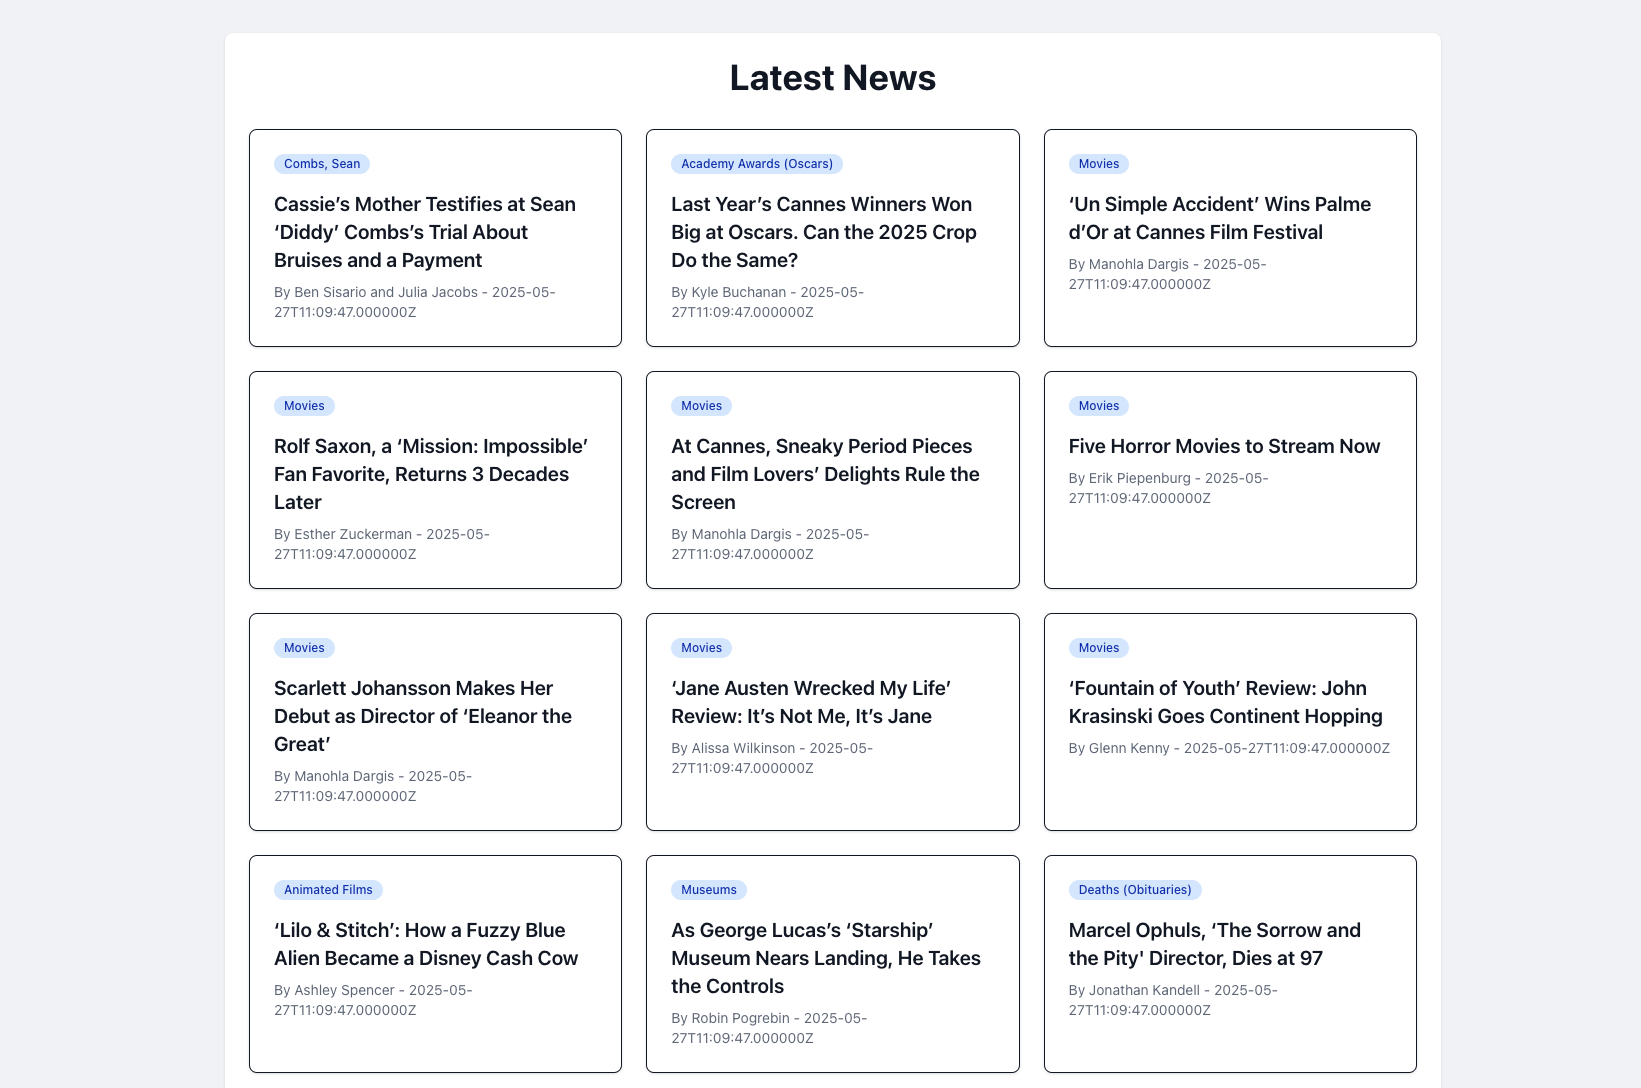
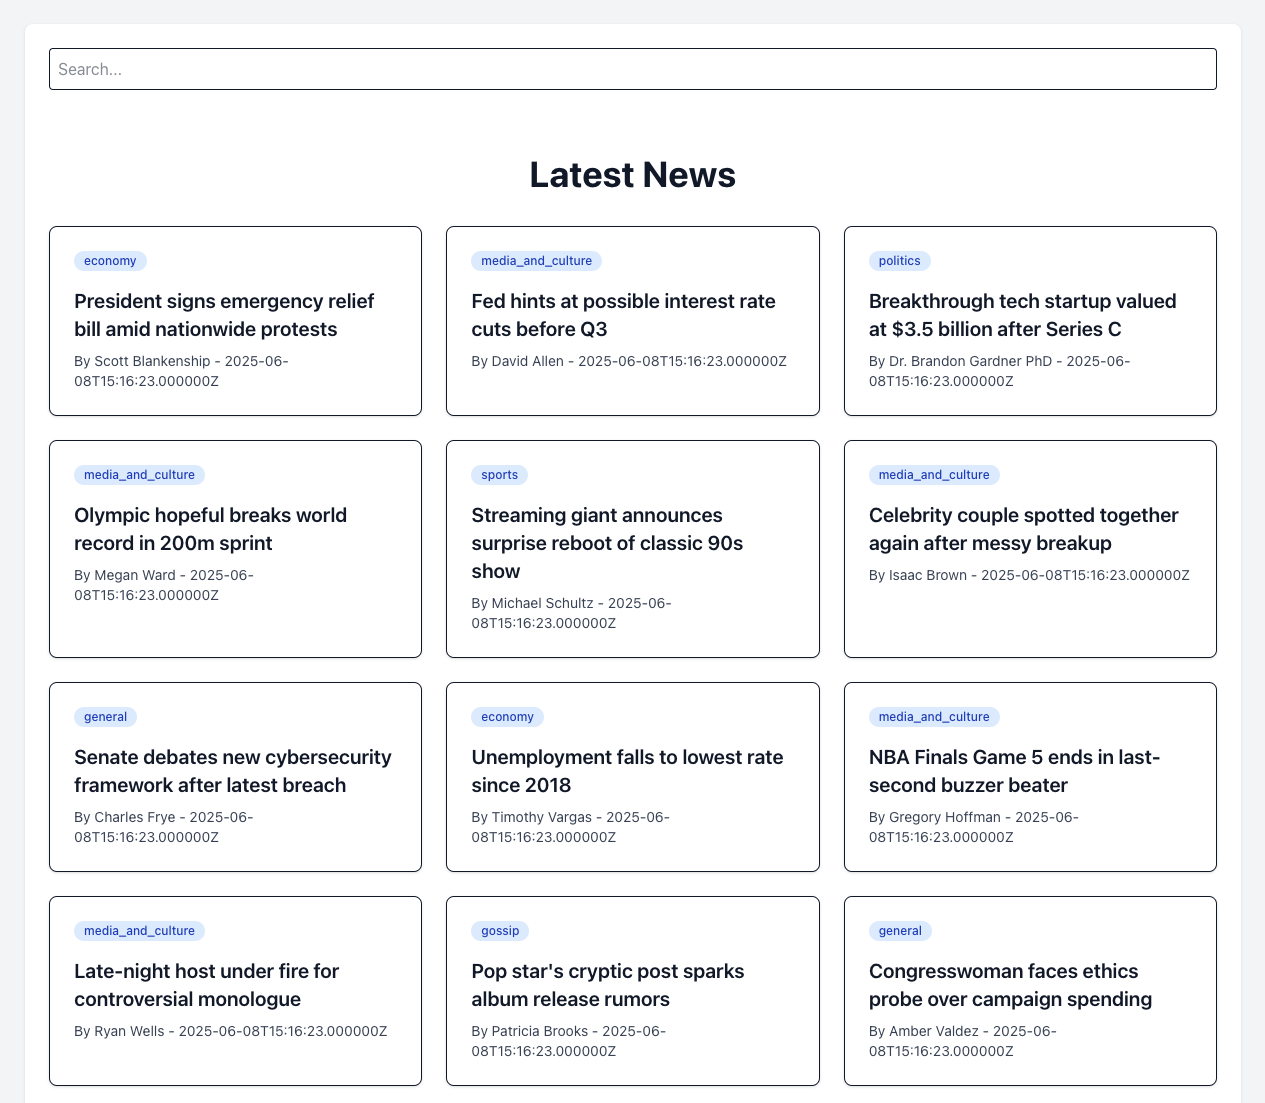
Small fixes + update readme

Changed region(s): [[0.0617, 0.125, 0.9557, 1.0], [0.4316, 0.0625, 0.5858, 0.0938], [0.0617, 0.0312, 0.0925, 0.0938]]

diff --git a/resources/js/Pages/Articles/Index.vue b/resources/js/Pages/Articles/Index.vue
@@ -1,0 +1,66 @@
+<template>
+    <div class="min-h-screen bg-gray-100">
+        <div class="py-12">
+            <div class="max-w-7xl mx-auto sm:px-6 lg:px-8">
+                <div class="bg-white overflow-hidden shadow-sm sm:rounded-lg">
+                    <div class="p-6 text-gray-900">
+                        <input type="text" v-model="searchQuery" placeholder="Search..."
+                               class="border rounded p-2 mb-4 w-full" @keyup.enter="search"/>
+                        <div v-if="hasSearchQuery" class="mb-4">
+                            <a href="/" class="text-blue-500 hover:underline">Back to Articles</a>
+                        </div>
+                    </div>
+                    <div class="p-6 text-gray-900">
+                        <div v-if="searchResults.length > 0">
+                            <h1 class="text-4xl font-bold text-center mb-8">Search Results for "{{ searchQueryFromUrl }}"</h1>
+                            <div class="grid grid-cols-1 md:grid-cols-2 lg:grid-cols-3 gap-6">
+                                <ArticleCard v-for="article in searchResults" :key="article.id" :article="article"/>
+                            </div>
+                        </div>
+                        <div v-else>
+                            <h1 class="text-4xl font-bold text-center mb-8">Latest News</h1>
+
+                            <div class="grid grid-cols-1 md:grid-cols-2 lg:grid-cols-3 gap-6">
+                                <ArticleCard v-for="article in articles" :key="article.id" :article="article"/>
+                            </div>
+                        </div>
+                    </div>
+                </div>
+            </div>
+        </div>
+    </div>
+</template>
+
+<script setup>
+import {ref, computed} from 'vue';
+import ArticleCard from '../../Components/ArticleCard.vue';
+
+const searchQuery = ref('');
+
+const hasSearchQuery = computed(() => {
+    const urlParams = new URLSearchParams(window.location.search);
+    return urlParams.has('q');
+});
+
+const searchQueryFromUrl = computed(() => {
+    const urlParams = new URLSearchParams(window.location.search);
+    return urlParams.get('q') || '';
+});
+
+function search() {
+    if (searchQuery.value) {
+        window.location.href = `?q=${searchQuery.value}`;
+    }
+}
+
+defineProps({
+    articles: {
+        type: Array,
+        required: true
+    },
+    searchResults: {
+        type: Array,
+        required: false
+    }
+});
+</script>

diff --git a/resources/js/Components/ArticleCard.vue b/resources/js/Components/ArticleCard.vue
@@ -1,0 +1,31 @@
+<template>
+    <Link :href="`/articles/${article.slug}`"
+          class="bg-white border rounded-lg shadow-sm p-6 hover:shadow-md transition-shadow duration-200">
+        <div class="flex items-center justify-between mb-4">
+            <span class="inline-flex items-center px-2.5 py-0.5 rounded-full text-xs font-medium bg-blue-100 text-blue-800">
+                {{ article.category }}
+            </span>
+        </div>
+        <h2 class="text-xl font-semibold text-gray-900 mb-2">
+            {{ article.title }}
+        </h2>
+        <p class="text-sm text-gray-700">
+            By {{ article.author }} - {{ article.created_at }}
+        </p>
+        <p v-if="article.similarity_score" class="text-xs text-gray-700 mt-2 italic">
+            Similarity score: {{ article.similarity_score.toFixed(2) }}
+        </p>
+    </Link>
+</template>
+
+<script setup>
+import {Link} from '@inertiajs/vue3';
+import {defineProps} from 'vue';
+
+defineProps({
+    article: {
+        type: Object,
+        required: true
+    }
+});
+</script>

diff --git a/app/Http/Controllers/ArticleController.php b/app/Http/Controllers/ArticleController.php
@@ -14,7 +14,7 @@ class ArticleController extends Controller
 {
     public function index(Request $request): Response
     {
-        return Inertia::render('Welcome', [
+        return Inertia::render('Articles/Index', [
             'articles' => Article::latest()->get(),
             'searchResults' => $this->getSearchResults($request)
         ]);
@@ -35,6 +35,7 @@ class ArticleController extends Controller
         return $similarContent->map(function (SimilarContentResult $item) {
                 $similarItem = Article::find($item->targetId);
                 $keywords = $similarItem->keywords ?: [];
+
                 return [
                     'title' => $similarItem->title,
                     'slug' => $similarItem->slug,
@@ -55,7 +56,7 @@ class ArticleController extends Controller
         $searchResults = collect($searchResults)->map(function (SimilarContentResult $result) {
             $article = Article::find($result->targetId);
             return $article ? array_merge($article->toArray(), [
-                'similarityScore' => $result->similarityScore
+                'similarity_score' => $result->similarityScore
             ]) : [];
         });
 

diff --git a/README.md b/README.md
@@ -2,38 +2,45 @@
 
 This project is an example of how to integrate the [Timm49/similar-content](https://github.com/Timm49/similar-content) package into a Laravel project.
 
-This example focuses on how to use the package to easily add a "Related items recommendation" section to a detail view.
-It's a very basic app with news articles like NYT, CNN, etc.
-It includes a command which uses the New York Times RSS feed to populate the database with dummy data.
-An example of the recommendation section can be found on an article detail route: /articles/{slug}
+To showcase these features I decided on a very basic news article website (like NYT, CNN, etc)
+
+This example includes examples for the 2 main features of the package:
+
+- Related content recommendation section
+- Semantic search
+
+Check out the ArticleController since more or less everything relevant to the package happens in there.
 
 ## Installation
 
 Clone via git
-
 ```bash
 git clone https://github.com/Timm49/example-app-similar-content
+```
+
+Add environment variables
+```env
+SIMILAR_CONTENT_OPENAI_API_KEY=your-key-for-embeddings
 ```
 
 Composer installation
 ```bash
 composer install
 ```
+
 Run migrations
 ```bash
 php artisan migrate
 ```
 
-Add environment variables
-```env
-OPENAI_API_KEY=your-key-for-generating-content-with-chatgpt
-SIMILAR_CONTENT_OPENAI_API_KEY=your-key-for-embeddings
-```
-Note: You only need the OPENAI_API_KEY if you want to generate content using ChatGPT. The keys can be the same as longs as it has the correct permissions.
-
-Run queue workers/listeners to queue embedding generation processes
+Seed the database
 ```bash
-php queue:listen
+php artisan db:seed
+```
+
+Generate embeddings (OpenAI)
+```bash
+php artisan similar-content:generate-embeddings
 ```
 
 Serve the app
@@ -42,40 +49,26 @@ php artisan serve
 npm run dev
 ```
 
-## Result
+### The routes:
+
+#### /
+This route shows the article index page. The "search" bar showcases how you can use the package to easily include a semantic search feature on your applicaiton.
 <p>
-  <img src="docs/news-index.png" alt="Screenshot of similar content results" width="500" />
+  <img src="docs/news-index.png" alt="Screenshot of similar content results" width="100%" />
 </p>
+
+### /articles/{slug}
+Article show (detail) page with "related articles" recommendation section.
+I displayed the similarity scores in this section to make the similarity extra clear.
 <p>
-  <img src="docs/news-show.png" alt="Screenshot of similar content results" width="500" />
+  <img src="docs/news-show.png" alt="Screenshot of similar content results" width="100%" />
 </p>
 
-## Code examples
-On the articles.show route we retrieve similar content and add it to the response:
-
-```php
-public function show(Article $article): Response
-{
-    $similarContent = collect(SimilarContent::for($article)
-        ->getSimilarContent())
-        ->take(5);
-
-    return Inertia::render('Articles/Show', [
-        'article' => $article,
-        'similar_content' => $similarContent->map(function (SimilarContentResult $item) {
-            $similarItem = Article::find($item->targetId);
-            return [
-                'title' => $similarItem->title,
-                'slug' => $similarItem->slug,
-                'author' => $similarItem->author,
-                'published_at' => $similarItem->published_at,
-                'category' => $similarItem->category,
-                'similarity_score' => $item->similarityScore,
-            ];
-        })
-    ]);
-}
-```
+#### /?q=SearchQuery
+The route which shows the search results from the search input:
+<p>
+  <img src="docs/news-semantic-search.png" alt="Screenshot of semantic search results" width="100%" />
+</p>
 
 ## Contributing
 This is just an example app so I don't expect too many contributions. Feel free of course.
